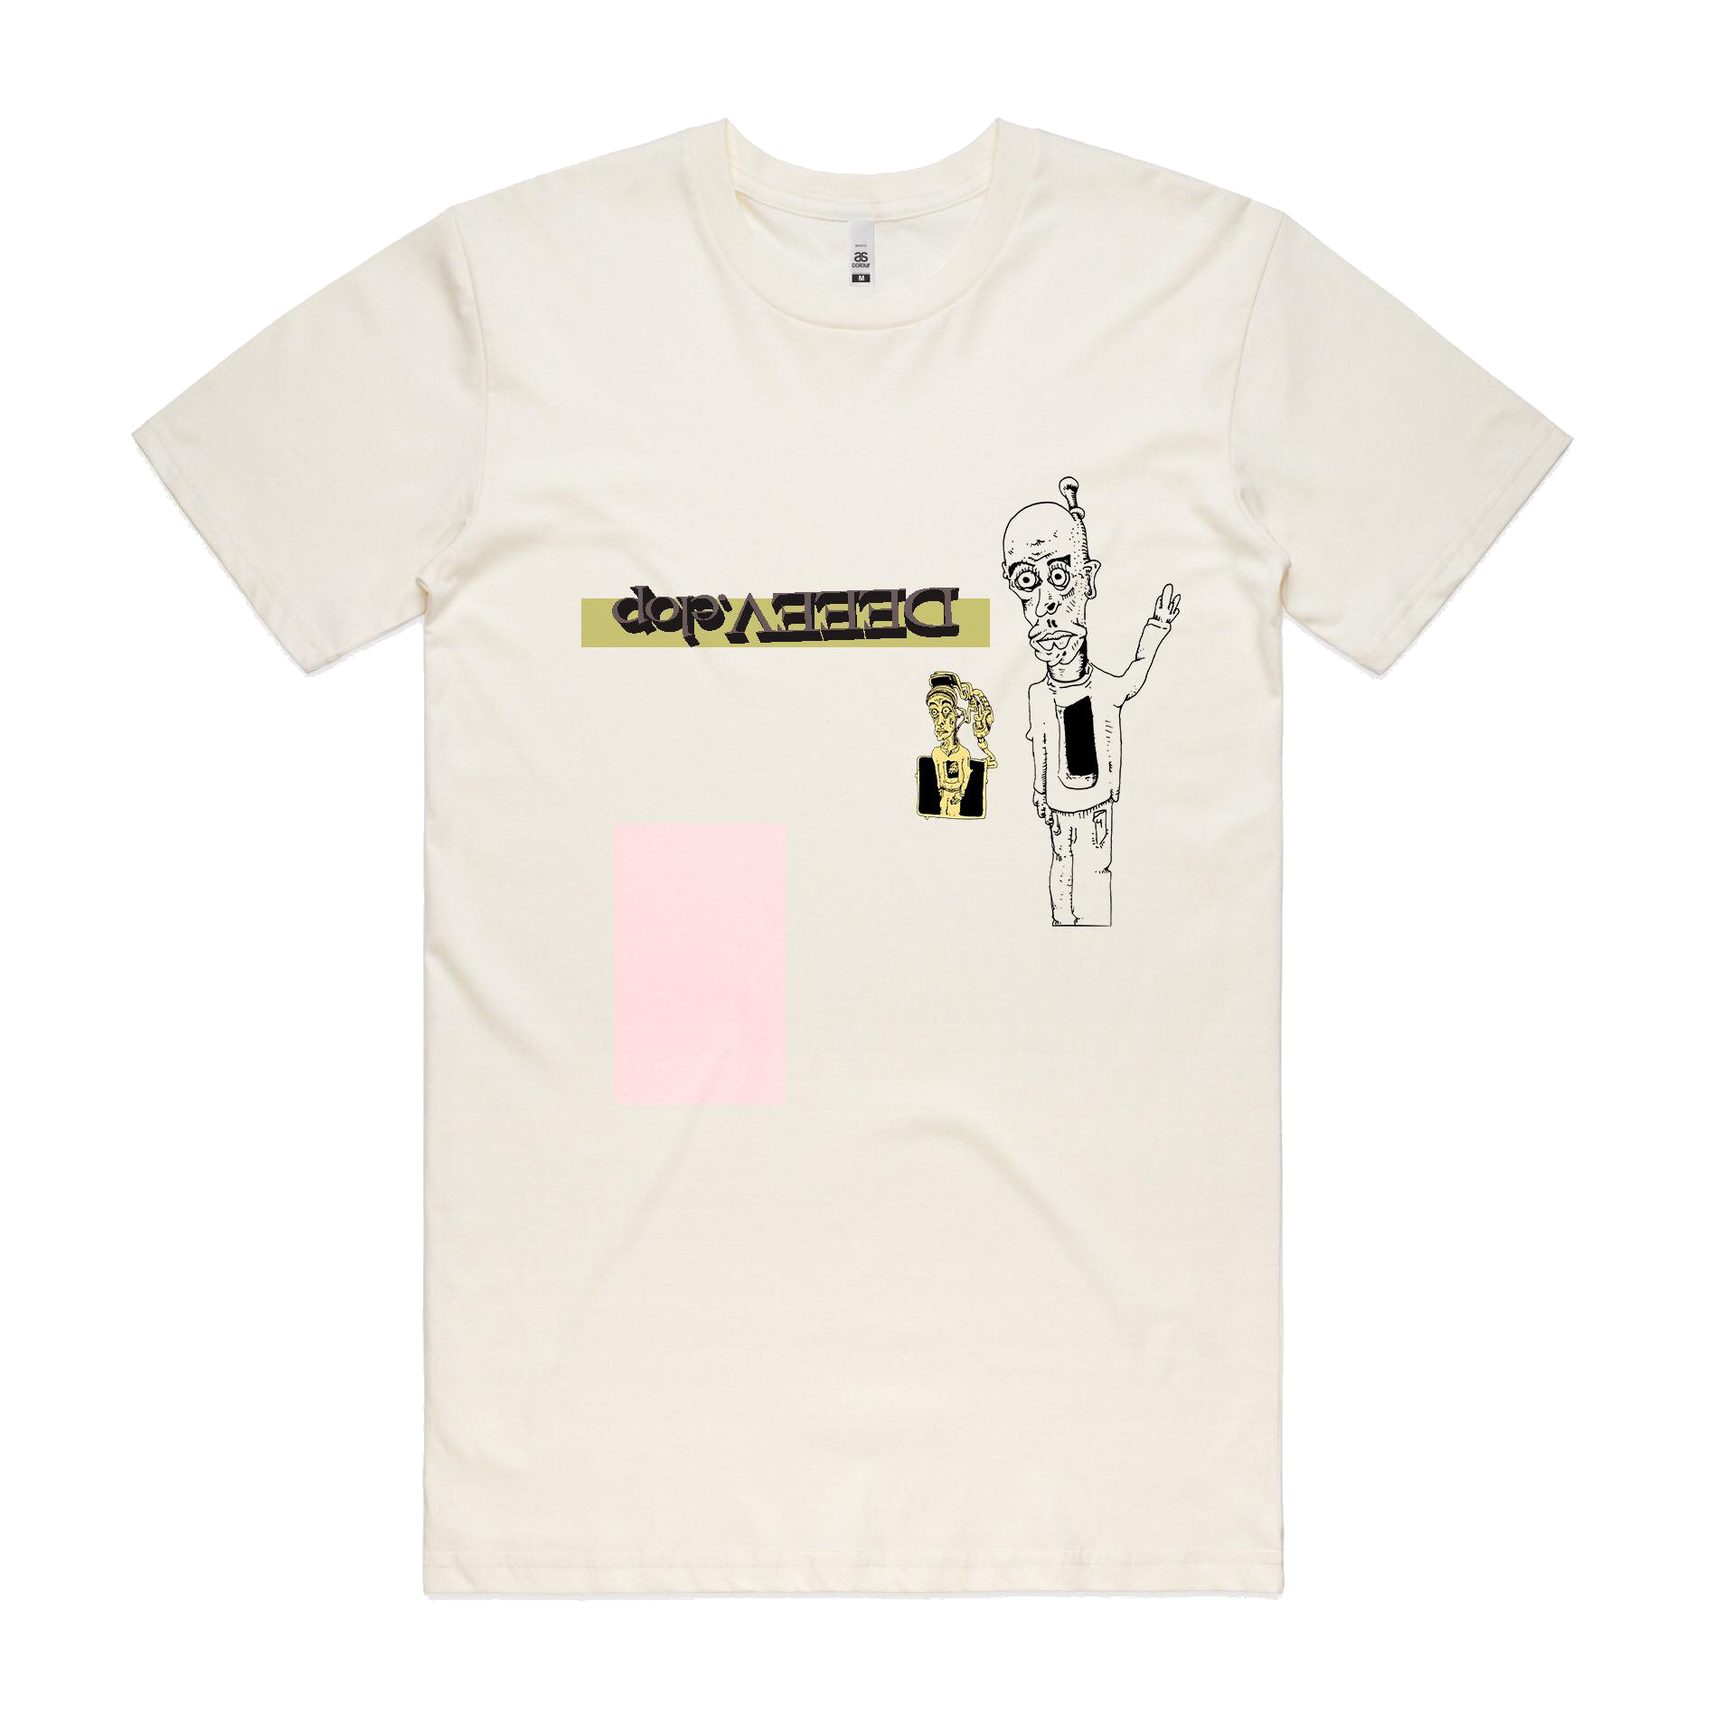
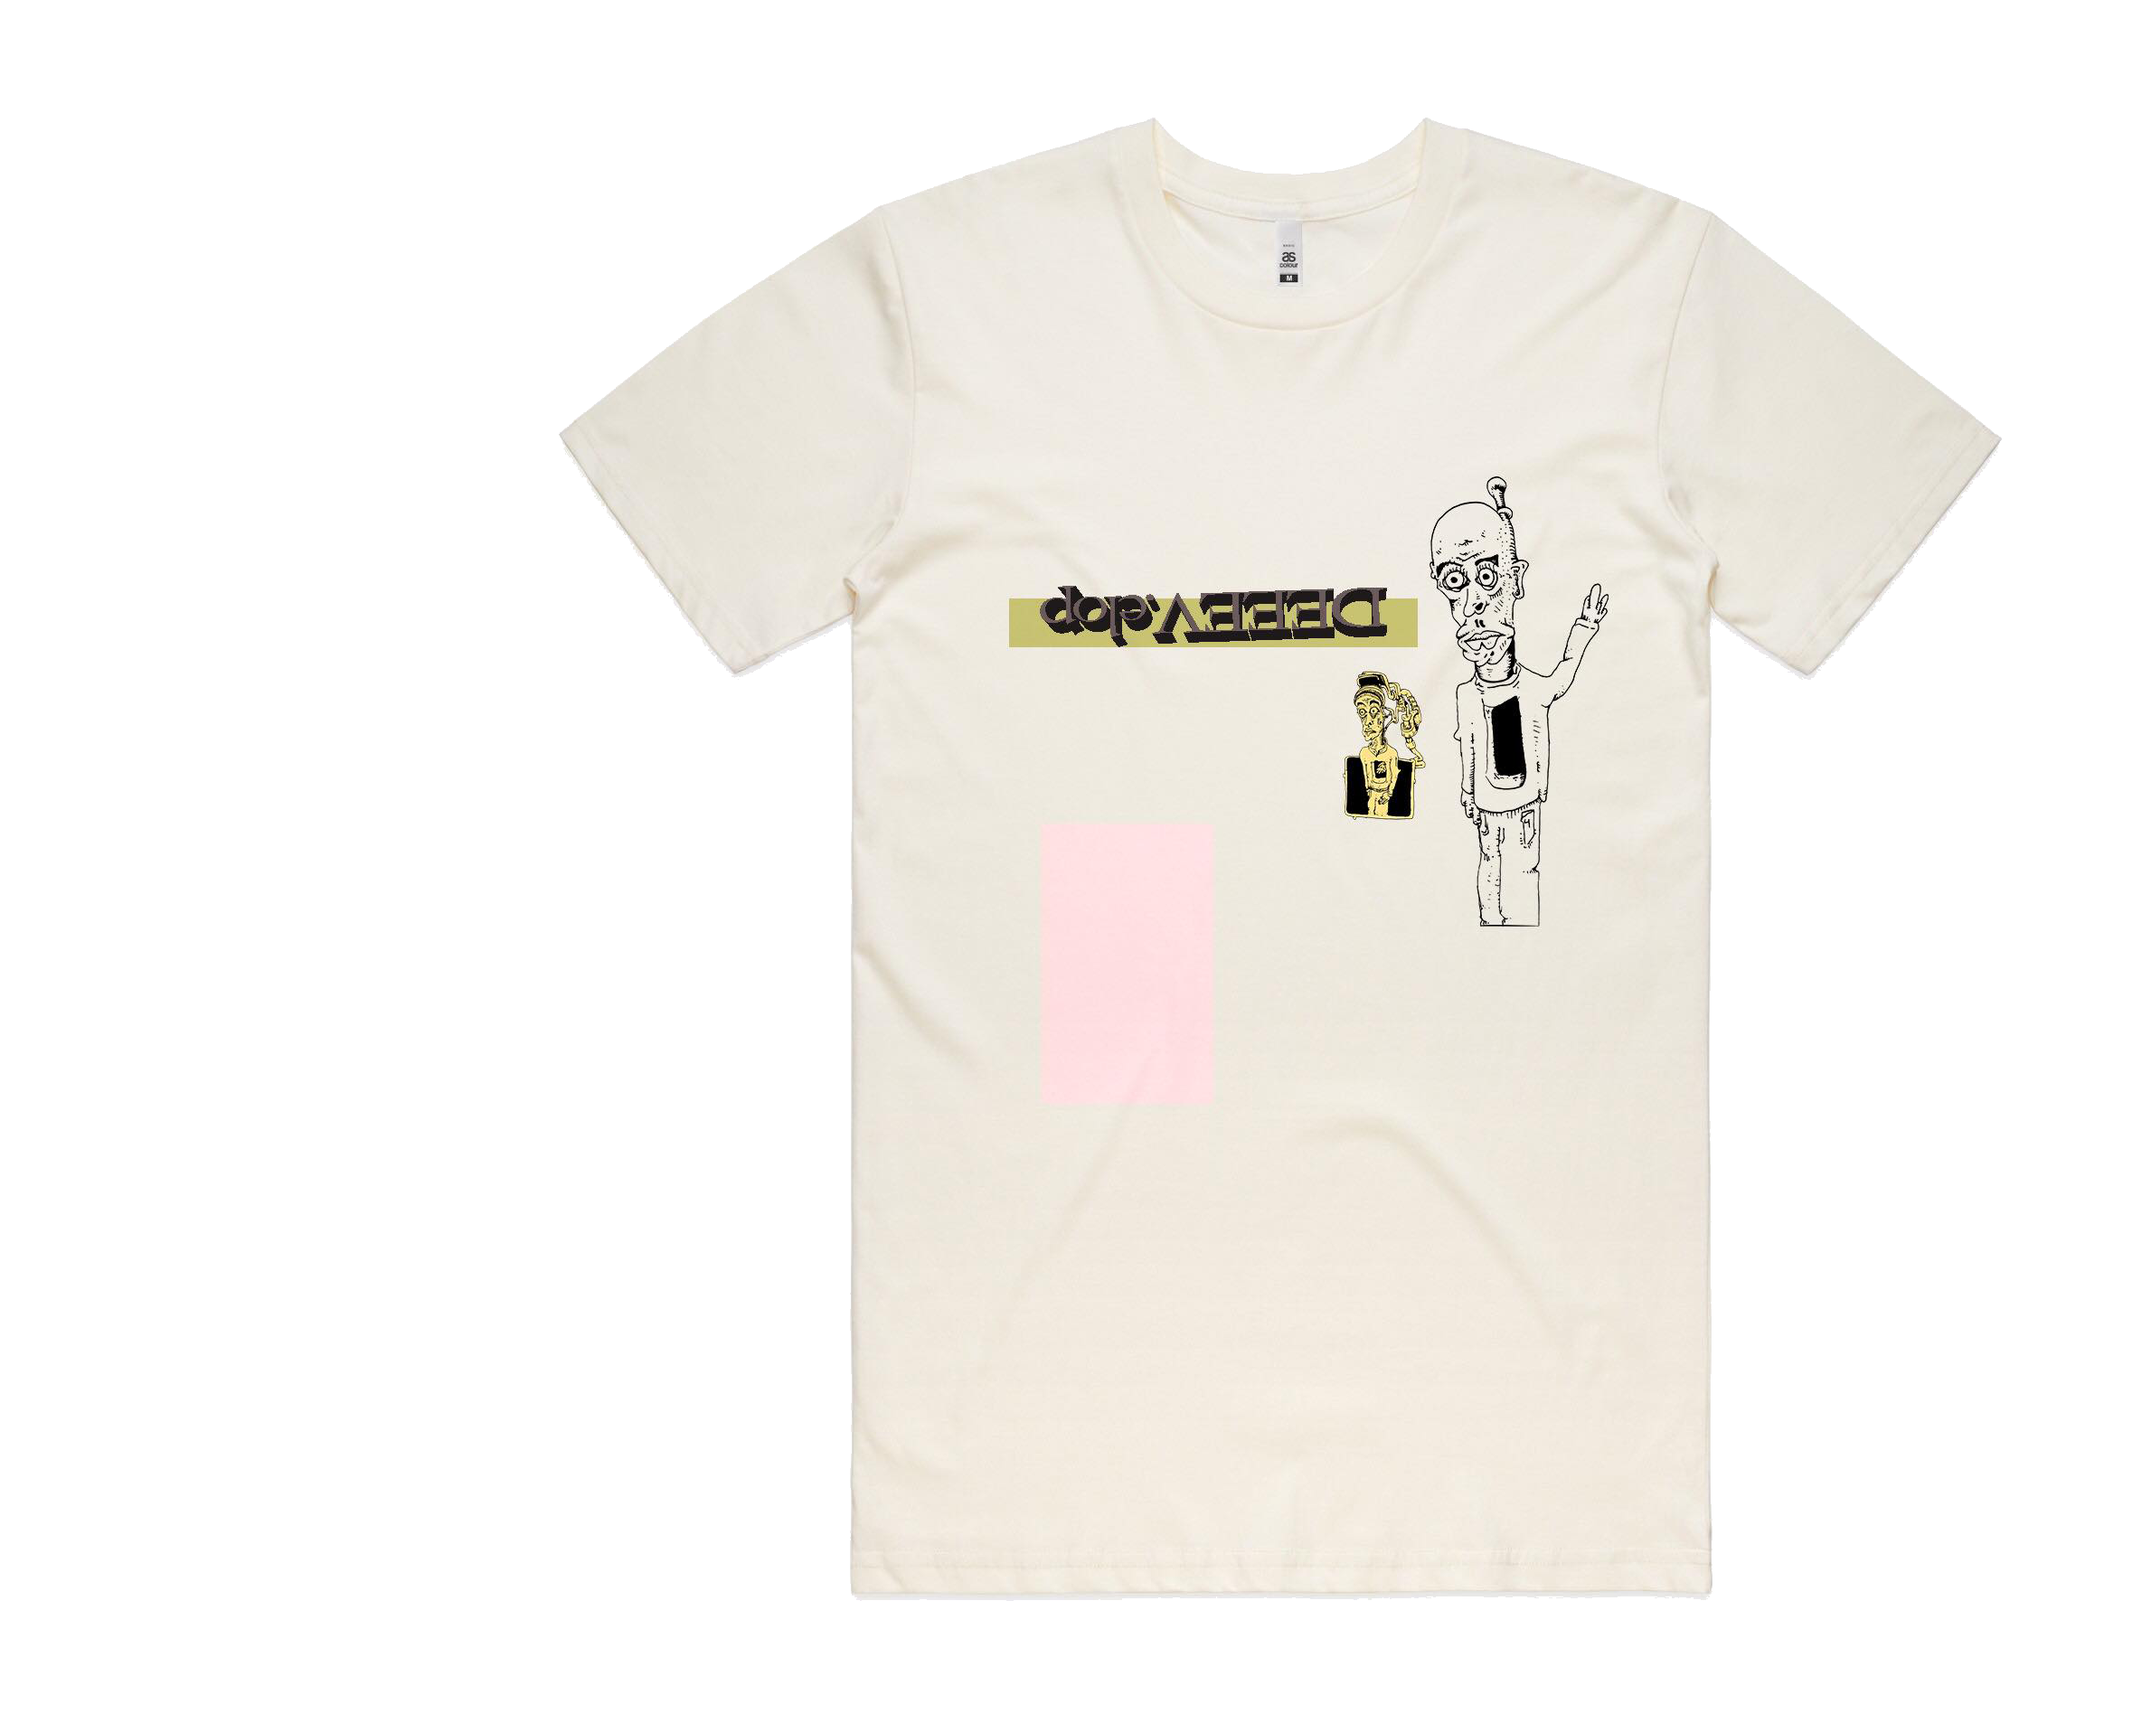
Adjust t-shirt positions

Changed region(s): [[0.0622, 0.0622, 0.9335, 0.9335], [0.4045, 0.1556, 0.4357, 0.2178]]

diff --git a/style.css b/style.css
@@ -1,59 +1,55 @@
 html {
-  margin: 0;
-  padding: 0;
-}
-
-.header {
-  background-color: #242424;
-  margin: 0;
-  position: fixed;
-  width: 100%;
-  height: 70px;
-  color: #fff;
-  border-bottom: 10px solid #474747;
+    margin: 0;
+    padding: 0;
 }
 
 body {
-  position: absolute;
-  margin: 0;
-  padding: 0;
-  background-color: blueviolet;
-  width: 100%;
-  font-family: "Inter", sans-serif;
+    position: absolute;
+    margin: 0;
+    padding: 0;
+    background-color: #242424;
+    width: 100%;
+    font-family: "Inter", sans-serif;
 }
 
-section {
-  padding: 30px;
-  width: 100%;
-  margin-top: 80px;
-  height: 700px;
-  position: fixed;
-  background-color: aquamarine;
-  font-family: "Inter", sans-serif;
-  background-image: url(img/teelight.png), url(img/teedark.png),
-    url(img/timelapse.png);
-  background-position: left center, left center, left top;
-  background-repeat: no-repeat, no-repeat, no-repeat;
-  background-size: 500px 500px, 600px 600px, 100% auto;
-  background-position-x: 20px;
+.header {
+    background-color: #242424;
+    margin: 0;
+    position: fixed;
+    width: 100%;
+    height: 70px;
+    color: #fff;
+    border-bottom: 10px solid #474747;
+    z-index: 3;
 }
 
 .logo {
-  float: right;
-  padding: 0px 0;
-  margin-left: 30px;
-  height: 40px;
+    float: right;
+    padding: 0px 0;
+    margin-left: 30px;
+    height: 40px;
 }
 
-/* .main_photo {
-  width: 100%;
-  position: fixed;
-  height: 100%;
-  padding-top: 0;
-} */
+#still {
+    padding: 30px;
+    width: 100%;
+    margin-top: 80px;
+    height: 700px;
+    position: fixed;
+    background-color: aquamarine;
+    font-family: "Inter", sans-serif;
+    background-image: url(img/teelight2.png), url(img/teedark2.png), url(img/timelapse.png);
+    background-position: left center, left center, left top;
+    background-repeat: no-repeat, no-repeat, no-repeat;
+    background-size: 700px 500px, 670px 550px, 100% auto;
+    z-index: 1;
+}
 
-/* background-image: url(img/teelight.png), url(img/teedark.png),
-    url(img/timelapse.png);
-  background-position: left center, left center, left top;
-  background-repeat: no-repeat, no-repeat, no-repeat;
-  background-size: 600px 600px, 700px 700px, 1500px auto; */
+.scrolls {
+    z-index: 2;
+    position: relative;
+}
+
+.scrolls img {
+    margin-top: 170px;
+}

diff --git a/index.html b/index.html
@@ -23,28 +23,22 @@
     </header>
     <!-- End of page header -->
 
-    <!-- <img src="img/timelapse.png" alt="timelapse background" class="main_photo" /> -->
-
     <section>
-        <div id="still">
-            <!-- stays still -->
-            <!-- <img src="img/teedark.png" alt="darker t-shirt" id="darkT" />
-            <img src="img/teelight.png" alt="lighter t-shirt" id="lightT" /> -->
-        </div>
+        <div id="still"></div>
 
-        <!-- <div class="scrolls">
+        <div class="scrolls">
+            <img src="img/tee3.png" alt="first t-shirt option" class="tee" width="700" height="500" />
             <h2>$46.8</h2>
             <h3 class="buy">buy</h3>
             <p>'hello bye' t-shirt</p>
-            <img src="img/tee1.png" alt="first t-shirt option" class="tee" />
         </div>
 
         <div class="scrolls">
+            <img src="img/tee1.png" alt="second t-shirt option" class="tee" width="670" height="500" />
             <h2>$39.5</h2>
             <h3 class="buy">buy</h3>
             <p>'this is my face' t-shirt</p>
-            <img src="img/tee2.png" alt="second t-shirt option" class="tee" />
-        </div> -->
+        </div>
     </section>
 </body>
 
